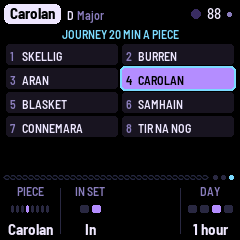
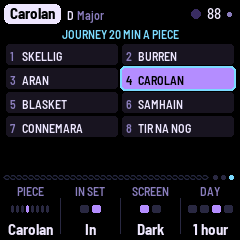
1.4.1: the screen, dark or light
A Screen knob on the Journey page (its third, which was empty): Dark, the
colours on black as before; Light, the same hues deeper, on white. Saved
with the pieces, as Lights (a spare byte: a save from before reads Dark).

The colours are two tables and the K_ names read the one in use; the
screen is drawn again whole when it changes. On the light screen a held
effect's band is a shade deeper, so its white lettering reads (expect
pfcontrast, now for both). Nothing in the sound engine.

Host: expect light; scenario screenlight (turned, saved, restarted,
turned back). Manual: the Screen paragraph, a light picture, the Journey
picture retaken.

Claude-Session: https://claude.ai/code/session_01T5obJLGpxqm4RGcUwvyqqe

diff --git a/firmware/src/app/ui.c b/firmware/src/app/ui.c
@@ -108,7 +108,8 @@ enum { K_LEDS = 200, K_CPU, K_NONE, K_SLOT, K_CQ, K_CX,    /* (the Chords page: 
        K_PLAY,                                               /* (the Chords page: Endless or Loop, P_PMODE's bit 2) */
        K_SAVE,                                               /* (Setup: a turn saves; it shows whether it's saved) */
        K_CHORUS,
-       K_JRP, K_JRIN, K_DAY };
+       K_JRP, K_JRIN, K_DAY,
+       K_SCR };                                              /* (1.4.1) the screen, dark or light: saved, as Lights */
 #define NDAY 4                                   /* (1.4) the day: off, or a whole day in 20 minutes, 1 hour, 3 hours */
 static const char *const DAY_NAME[NDAY] = {"Off", "20 min", "1 hour", "3 hours"};
 static void dy_set(int v);
@@ -148,7 +149,7 @@ static const uint16_t VIEW_KNOB[NVIEWS][4] = {
     {P_MW4, P_MT4, P_MR4, P_MI4},                /* the Atmosphere's Move (SAVE, a third time) */
     {P_ORN, P_GLIDE, P_VIB, P_LMEM},             /* (AISLING) Lead style (LFO, a third time): how it plays; Memory
                                                   * as on the Arc page */
-    {K_JRP, K_JRIN, K_NONE, K_DAY},              /* (1.4) the Journey (GLO, a third time): its pieces; the day */
+    {K_JRP, K_JRIN, K_SCR, K_DAY},              /* (1.4) the Journey (GLO, a third time): its pieces; the day */
 };
 static const char *const KNOB_LABEL[NVIEWS][4] = {
     {"Filter", "Evolve", "Motion", "Drift"},
@@ -178,7 +179,7 @@ static const char *const KNOB_LABEL[NVIEWS][4] = {
     {"Width", "Time", "Rate", "Intro"},
     {"Width", "Time", "Rate", "Intro"},
     {"Ornament", "Glide", "Vibrato", "Memory"},
-    {"Piece", "In set", "", "Day"},
+    {"Piece", "In set", "Screen", "Day"},
 };
 /* what each knob does, a line: on the rule above the knobs while it's being turned (in capitals; each fits the
  * rule's 228 px, and every view has its row: the host's expect helpfit) */
@@ -211,36 +212,45 @@ static const char *const KNOB_HELP[NVIEWS][4] = {   /* (BERLIN's, a row a view, 
     {"How far its filter wanders", "How long one move takes", "How often a new move starts", "Bars its filter takes to open"},
     {"How far its filter wanders", "How long one move takes", "How often a new move starts", "Bars its filter takes to open"},
     {"Cuts, rolls, slides: how often", "How long it slides, note to note", "How deep the late vibrato", "How much the Lead keeps its ideas"},
-    {"Which piece: the journey's list", "The journey plays it, or passes", "", "Dawn to night: light and weather"},
+    {"Which piece: the journey's list", "The journey plays it, or passes", "Dark, on black; or light, on white", "Dawn to night: light and weather"},
 };
 
 /* (BERLIN) the screen's colours: Cosmic, on black (spec 15): lavender text, a cyan accent; the layers in their own
  * colours, the Drone violet, the Sequence pink, the Lead gold, Sequence 2 cyan, the Atmosphere dim lavender; each with a
  * dark tint for the shapes at rest. (The names stay DUB-1's: K_PAD the Drone, K_BELL the Sequence, K_BASS the Lead,
  * K_PULSE Sequence 2, K_NOISE the Atmosphere.) */
-#define K_BG RGB(0, 0, 0)
-#define K_PANEL RGB(26, 23, 38)
-#define K_LINE RGB(46, 41, 66)
-#define K_DIM RGB(141, 127, 184)
-#define K_TEXT RGB(239, 231, 255)
-#define K_ACC RGB(127, 216, 255)         /* the accent: the page, the knob being turned, a message's word */
-#define K_BELL RGB(255, 106, 213)
-#define K_BELL_T RGB(96, 36, 82)
-#define K_PAD RGB(180, 140, 255)
-#define K_PAD_T RGB(58, 44, 96)
-#define K_PULSE RGB(127, 216, 255)
-#define K_PULSE_T RGB(36, 66, 84)
-#define K_BASS RGB(255, 210, 127)
-#define K_BASS_T RGB(98, 80, 44)
-#define K_FROST RGB(232, 92, 84)         /* dub hold */
-#define K_FROST_T RGB(128, 56, 52)
-#define K_RIM RGB(214, 124, 176)         /* the rim */
-#define K_RIM_T RGB(108, 58, 86)
-#define K_CLAP RGB(232, 206, 98)         /* the clap */
-#define K_CLAP_T RGB(108, 98, 48)
-#define K_EIRE RGB(52, 196, 116)         /* (AISLING) the triskele's green */
-#define K_EIRE_O RGB(255, 146, 72)       /* (AISLING) and the flag's orange: the launch screen's "by" */
-#define K_NOISE RGB(186, 174, 156)       /* the noise (its level ring) */
+/* (1.4.1) the colours by night (as they were, on black) and by day (on bainin white: the same hues, darker, so
+ * each reads on it; a tint is pale, not dark). the Journey page's Screen sets which; proj.light keeps it. */
+enum { KC_BG, KC_PANEL, KC_LINE, KC_DIM, KC_TEXT, KC_ACC, KC_BELL, KC_BELL_T, KC_PAD, KC_PAD_T, KC_PULSE, KC_PULSE_T, KC_BASS, KC_BASS_T, KC_FROST, KC_FROST_T, KC_RIM, KC_RIM_T, KC_CLAP, KC_CLAP_T, KC_EIRE, KC_EIRE_O, KC_NOISE, KC_SEA, KC_HEATHER, KC_GORSE, KC_BAININ, KC_N };
+static const uint16_t KPAL[2][KC_N] = {
+    {RGB(0, 0, 0), RGB(26, 23, 38), RGB(46, 41, 66), RGB(141, 127, 184), RGB(239, 231, 255), RGB(127, 216, 255), RGB(255, 106, 213), RGB(96, 36, 82), RGB(180, 140, 255), RGB(58, 44, 96), RGB(127, 216, 255), RGB(36, 66, 84), RGB(255, 210, 127), RGB(98, 80, 44), RGB(232, 92, 84), RGB(128, 56, 52), RGB(214, 124, 176), RGB(108, 58, 86), RGB(232, 206, 98), RGB(108, 98, 48), RGB(52, 196, 116), RGB(255, 146, 72), RGB(186, 174, 156), RGB(72, 188, 176), RGB(198, 150, 210), RGB(244, 200, 56), RGB(246, 238, 214)},
+    {RGB(250, 247, 240), RGB(232, 226, 240), RGB(206, 198, 224), RGB(108, 94, 150), RGB(24, 18, 40), RGB(0, 118, 170), RGB(204, 40, 150), RGB(242, 204, 230), RGB(120, 80, 210), RGB(222, 210, 246), RGB(0, 128, 180), RGB(198, 228, 240), RGB(176, 118, 0), RGB(240, 224, 190), RGB(200, 50, 44), RGB(246, 208, 204), RGB(170, 70, 130), RGB(240, 208, 226), RGB(150, 124, 0), RGB(238, 230, 190), RGB(20, 140, 80), RGB(200, 90, 10), RGB(120, 110, 96), RGB(0, 128, 118), RGB(140, 80, 160), RGB(166, 118, 0), RGB(40, 34, 30)},
+};
+static const uint16_t *kpal = KPAL[0];
+static void pal_sync(void);                      /* kpal as proj.light says, and all drawn again when it changed */
+#define K_BG kpal[KC_BG]
+#define K_PANEL kpal[KC_PANEL]
+#define K_LINE kpal[KC_LINE]
+#define K_DIM kpal[KC_DIM]
+#define K_TEXT kpal[KC_TEXT]
+#define K_ACC kpal[KC_ACC]         /* the accent: the page, the knob being turned, a message's word */
+#define K_BELL kpal[KC_BELL]
+#define K_BELL_T kpal[KC_BELL_T]
+#define K_PAD kpal[KC_PAD]
+#define K_PAD_T kpal[KC_PAD_T]
+#define K_PULSE kpal[KC_PULSE]
+#define K_PULSE_T kpal[KC_PULSE_T]
+#define K_BASS kpal[KC_BASS]
+#define K_BASS_T kpal[KC_BASS_T]
+#define K_FROST kpal[KC_FROST]         /* dub hold */
+#define K_FROST_T kpal[KC_FROST_T]
+#define K_RIM kpal[KC_RIM]         /* the rim */
+#define K_RIM_T kpal[KC_RIM_T]
+#define K_CLAP kpal[KC_CLAP]         /* the clap */
+#define K_CLAP_T kpal[KC_CLAP_T]
+#define K_EIRE kpal[KC_EIRE]         /* (AISLING) the triskele's green */
+#define K_EIRE_O kpal[KC_EIRE_O]       /* (AISLING) and the flag's orange: the launch screen's "by" */
+#define K_NOISE kpal[KC_NOISE]       /* the noise (its level ring) */
 
 static struct {
     uint8_t view;
@@ -527,6 +537,8 @@ static int knob_get(int k)
         return proj.par[k] + (k == P_SEQ2OCT ? s2_shift() : 0);
     if (k == K_LEDS)
         return proj.leds;
+    if (k == K_SCR)
+        return proj.light != 0;
     if (k == K_CPU)
         return (int)plat_cpu_pct();
     if (k == K_SLOT)
@@ -571,7 +583,7 @@ static void knob_range(int k, int *lo, int *hi)
         *hi = 50;
     } else {
         *lo = 0;
-        *hi = k == K_DAY ? NDAY - 1 : k == K_JRP ? NPIECES - 1 : k == K_JRIN ? 1 : k == K_CHORUS ? 100 : k == K_PLAY ? 1 : k == K_MODE ? EN_NMODES - 1 : k == K_LEDS ? 2 : k == K_CPU ? 100 : k == K_SLOT ? EN_NPROG - 1 : k == K_CQ ? EN_NCQ - 1 : k == K_CX ? EN_NCX - 1
+        *hi = k == K_SCR ? 1 : k == K_DAY ? NDAY - 1 : k == K_JRP ? NPIECES - 1 : k == K_JRIN ? 1 : k == K_CHORUS ? 100 : k == K_PLAY ? 1 : k == K_MODE ? EN_NMODES - 1 : k == K_LEDS ? 2 : k == K_CPU ? 100 : k == K_SLOT ? EN_NPROG - 1 : k == K_CQ ? EN_NCQ - 1 : k == K_CX ? EN_NCX - 1
             : k == K_LANE ? EN_NDRUM - 1 : k == K_LCH ? 100 : 0;
     }
 }
@@ -581,7 +593,7 @@ static const char *knob_name(int k)
         return en_param_info(k)->name;
     return k == K_LEDS ? "Lights" : k == K_CPU ? "CPU" : k == K_SLOT ? "Slot" : k == K_CQ ? "Chord" : k == K_CX ? "Type"
          : k == K_LANE ? "Lane" : k == K_LCH ? "Chance" : k == K_FILTER ? "Filter" : k == K_DUB ? "Wet"
-         : k == K_ENERGY ? "Energy" : k == K_SPACE ? "Duck" : k == K_MODE ? "Mode" : k == K_PLAY ? "Play" : k == K_SAVE ? "Save" : k == K_CHORUS ? "Chorus" : k == K_DAY ? "Day" : k == K_JRP ? "Piece" : k == K_JRIN ? "In set" : "";
+         : k == K_ENERGY ? "Energy" : k == K_SPACE ? "Duck" : k == K_MODE ? "Mode" : k == K_PLAY ? "Play" : k == K_SAVE ? "Save" : k == K_CHORUS ? "Chorus" : k == K_DAY ? "Day" : k == K_SCR ? "Screen" : k == K_JRP ? "Piece" : k == K_JRIN ? "In set" : "";
 }
 static void knob_text(int k, char *b)
 {
@@ -598,8 +610,8 @@ static void knob_text(int k, char *b)
             b++;
         *b++ = '%';
         *b = 0;
-    } else if (k == K_JRP || k == K_JRIN || k == K_DAY) {
-        const char *n = k == K_DAY ? DAY_NAME[v] : k == K_JRP ? piece_name(v) : v ? "In" : "Out";
+    } else if (k == K_JRP || k == K_JRIN || k == K_DAY || k == K_SCR) {
+        const char *n = k == K_SCR ? (v ? "Light" : "Dark") : k == K_DAY ? DAY_NAME[v] : k == K_JRP ? piece_name(v) : v ? "In" : "Out";
         while ((*b++ = *n++))
             ;
     } else if (k == K_SLOT) {
@@ -683,6 +695,8 @@ static void knob_set(int k, int v)
             en_prog_rotate();                    /* (from Loop, by hand: the slot playing up to slot 1) */
     } else if (k == K_LEDS) {
         proj.leds = (uint8_t)v;
+    } else if (k == K_SCR) {                     /* (kpal follows it at the next frame: pal_sync) */
+        proj.light = (uint8_t)(v != 0);
     } else if (k == K_SLOT) {
         ui.slot = (uint8_t)v;
         return;                                  /* (only where the page looks: nothing saved) */
@@ -1590,7 +1604,7 @@ static void cc_in(int n, int v)
     } else if (n >= CC_FIXED && n < CC_FIXED + 7) {
         k = CC_FIXED_K[n - CC_FIXED];
     }
-    if (k == K_NONE || k == K_CPU || k == K_SAVE || k == K_LEDS || k == P_TUNE || k == P_MIDI)
+    if (k == K_NONE || k == K_CPU || k == K_SAVE || k == K_LEDS || k == K_SCR || k == P_TUNE || k == P_MIDI)
         return;
     knob_range(k, &lo, &hi);
     knob_set(k, lo + (v * (hi - lo) + 63) / 127);
@@ -2763,7 +2777,7 @@ static void line(int32_t x0, int32_t y0, int32_t x1, int32_t y1, uint16_t c)   /
 
 static void draw_meters(void)                    /* (BERLIN) left: the five layers, each its own activity at its level */
 {
-    static const uint16_t C[5] = {K_PAD, K_BELL, K_BASS, K_PULSE, K_NOISE},
+    const uint16_t C[5] = {K_PAD, K_BELL, K_BASS, K_PULSE, K_NOISE},
                           T[5] = {K_PAD_T, K_BELL_T, K_BASS_T, K_PULSE_T, K_PANEL};
     static const char *const NAME[5] = {"D", "1", "L", "2", "A"};
     int i;
@@ -2799,7 +2813,7 @@ static void draw_duck(void)                      /* (BERLIN) right: the echo's l
  * play in its colour, the rests a dot; on a layer's page the other lane greyed */
 static void draw_lanes(void)
 {
-    static const uint16_t C[2] = {K_BELL, K_PULSE}, T[2] = {K_BELL_T, K_PULSE_T};
+    const uint16_t C[2] = {K_BELL, K_PULSE}, T[2] = {K_BELL_T, K_PULSE_T};
     const int lay = oct_layer(ui.view);
     int l, i;
     for (l = 0; l < 2; l++) {
@@ -2825,17 +2839,17 @@ static const char *const GRID_CELL[EN_NFX] = {"Repeat", "Time", "Stop", "Shimmer
                                               "Reverb", "Ceo", "Freeze", "Wash", "Octave", "Return", "Fras",
                                               "Macalla"};
 /* (the user, 2026-11-10: "more Irish") the flag's orange, the sea, heather, gorse, shamrock; shaded towards bainin */
-#define K_SEA RGB(72, 188, 176)
-#define K_HEATHER RGB(198, 150, 210)
-#define K_GORSE RGB(244, 200, 56)
-#define K_BAININ RGB(246, 238, 214)
+#define K_SEA kpal[KC_SEA]
+#define K_HEATHER kpal[KC_HEATHER]
+#define K_GORSE kpal[KC_GORSE]
+#define K_BAININ kpal[KC_BAININ]
 /* (1.3.1; the user, 2026-11-11: "more of how it is shown now") the grid in PERFORM's look: its name in the uncial hand,
  * a colour a group (Echo the sea and Space heather, as PERFORM's; Filter gorse, Moves the flag's orange), a shade a
  * cell, a plaited rule after each group's name; a held cell its colour full, the lettering black, as the flash */
 static void grid_band(int32_t oy)                 /* the whole screen, in two bands of 240 x 120 */
 {
     static const char *const GROUP[4] = {"ECHO", "FILTER", "SPACE", "MOVES"};   /* (BERLIN's) */
-    static const uint16_t GCOL[4] = {K_SEA, K_GORSE, K_HEATHER, K_EIRE_O};
+    const uint16_t GCOL[4] = {K_SEA, K_GORSE, K_HEATHER, K_EIRE_O};
     int r, c;
     cv_begin(240, 120, K_BG);
     text_c(120, 0 - oy, &FONT_US, "EFFECTS", K_ACC);
@@ -2926,7 +2940,8 @@ static void draw_pmap(void)
  * go: their keys blink, REC is lit. */
 #define PF_H (HDR_H + MAIN_H)
 #define PF_MAX 8
-static const uint16_t PG_COL[PG_N] = {K_EIRE_O, K_SEA, K_HEATHER, K_GORSE, K_EIRE};
+static const uint8_t PG_COL_I[PG_N] = {KC_EIRE_O, KC_SEA, KC_HEATHER, KC_GORSE, KC_EIRE};
+#define PG_COL(g) kpal[PG_COL_I[g]]
 static const char *const PLINE[PERF_N] = {
     "a slice, over and over", "fog rolling into the echo", "half the speed", "a burst of rain",
     "chopped to the beat", "the Sequence's filter swept", "a beat rolled faster", "the Sequence into the echo",
@@ -2940,8 +2955,11 @@ static uint16_t pkey_col(int k)
     int i, n = 0;
     for (i = 0; i < k; i++)
         n += PKEY[i].g == PKEY[k].g;
-    return mix(PG_COL[PKEY[k].g], K_BAININ, PKEY[k].g == PG_BLACK ? n : n * 3);
+    return mix(PG_COL(PKEY[k].g), K_BAININ, PKEY[k].g == PG_BLACK ? n : n * 3);
 }
+/* (1.4.1) the held effect's band: the key's colour; on the light screen a shade deeper, so the white lettering on
+ * it reads (4.5:1, the host's expect pfcontrast) */
+static uint16_t pflash_col(int k) { return proj.light ? mix(pkey_col(k), K_BAININ, 4) : pkey_col(k); }
 static int pflash_up(void) { return ui.perf && (ui.pheld | ui.pcc); }
 /* (1.4) a key's amount under full, in 63rds (1..63), or 0: full, or not sounding. Only a CC makes less than full */
 static int pk_under(int k)
@@ -2977,7 +2995,7 @@ static void pflash_band(uint32_t m, int32_t oy, int32_t hh, int fade)
             text_c(120, y0 + (bh - 19) / 2 - oy, &FONT_US, more < 10 ? (t[1] = t[2], t[2] = 0, t) : t, ink);
             break;
         }
-        col = mix(pkey_col(k), K_BG, fade);
+        col = mix(pflash_col(k), K_BG, fade);
         cv_rect(0, y0 - oy, 240, bh, col);
         if (pk_under(k)) {                       /* (1.4) under full: a bar up the band's left edge, as tall as its
                                                   * amount, clear of the lettering (at full there is none, and the
@@ -3038,7 +3056,7 @@ static int pflash_showing(void) { return ui.sig[0] == 0x50464C41u; }
  * playing a column */
 static void draw_pattern(void)
 {
-    static const uint16_t C[EN_NDRUM] = {K_PULSE, K_TEXT, K_DIM, K_RIM, K_CLAP};
+    const uint16_t C[EN_NDRUM] = {K_PULSE, K_TEXT, K_DIM, K_RIM, K_CLAP};
     static const char *const SH[EN_NDRUM] = {"SEQ", "SEQ2", "OCT", "OCT2", "SKIP"};   /* (BERLIN's lanes, LANE_NAME) */
     int l, i, pos = en_loop_pos[0];              /* (the Sequence's step, not the bar's sixteenth) */
     text_c(120, -1, &FONT_XS, proj.par[P_SMODE] ? "PLAY: THE PATTERN" : "PLAY: AUTO (A KEY TAKES IT OVER)",
@@ -3135,7 +3153,7 @@ static void draw_setlist(void)
  * OCT_SHOW after the last turn */
 static void draw_oct(uint32_t now)
 {
-    static const uint16_t C[NLAYER] = {K_PAD, K_BELL, K_BASS, K_PULSE, K_NOISE};
+    const uint16_t C[NLAYER] = {K_PAD, K_BELL, K_BASS, K_PULSE, K_NOISE};
     const int32_t r = 30, cy = 66;
     int l = oct_ring_on(now) - 1, f;
     int32_t f2;
@@ -3529,7 +3547,7 @@ static void draw_knobs(void)
         int k = VIEW_KNOB[ui.view][i], lo, hi, v, hot = now_touch && ui.touched == (int)i;
         int32_t x = (int32_t)i * 60, cx = x + 30;
         char t[16];
-        static const uint16_t MIXC[4] = {K_PAD, K_BELL, K_BASS, K_PULSE};   /* (the Mix page: the layers' colours) */
+        const uint16_t MIXC[4] = {K_PAD, K_BELL, K_BASS, K_PULSE};   /* (the Mix page: the layers' colours) */
         uint16_t bg = hot ? K_PANEL : K_BG, fill = moff ? K_LINE : ui.view == V_MIX ? MIXC[i] : hot ? K_ACC : K_PAD;
         if (k == K_NONE)
             continue;
@@ -4000,6 +4018,8 @@ static void speak_dump(void)
                     proj.par[k] = (int16_t)x;
                 else if (k == K_SLOT)
                     ui.slot = (uint8_t)x;
+                else if (k == K_SCR)
+                    proj.light = (uint8_t)x;
                 else if (k == K_DAY)
                     ui.day = (uint8_t)(x == hi ? 0 : x);   /* (left off) */
                 else if (k == K_JRP)
@@ -4235,8 +4255,17 @@ static int sleep_input(void)
     return 1;
 }
 
+static void pal_sync(void)
+{
+    const uint16_t *want = KPAL[proj.light != 0];
+    if (kpal != want) {
+        kpal = want;
+        memset(ui.sig, 0, sizeof ui.sig);        /* every band drawn again */
+    }
+}
 void ui_frame(void)
 {
+    pal_sync();
     if (sleep_tick()) {                          /* (1.1) asleep: only waking, saving, the reader and the link */
         sleep_input();
         autosave();
@@ -4316,6 +4345,7 @@ static void splash_band(int f, int32_t oy)
 
 void ui_splash(int f)
 {
+    pal_sync();                                  /* (the first frame comes before the project is read: dark) */
     splash_band(f, 0);
     splash_band(f, 120);
 }

diff --git a/host/amb_host.c b/host/amb_host.c
@@ -568,6 +568,9 @@ static int expect(const char *what, const char *val)
         got = (int)ui_gain_q12;
     else if (!strcmp(what, "view"))
         got = ui.view;
+    else if (!strcmp(what, "light"))              /* (1.4.1) the screen: 0 dark, 1 light; 10 more when the colours in
+                                                   * use aren't the ones it asks for */
+        got = proj.light + (kpal != KPAL[proj.light != 0] ? 10 : 0);
     else if (!strcmp(what, "piece"))
         got = proj.piece;
     else if (!strcmp(what, "pool"))               /* the scale, relative to the root (hex ok) */
@@ -604,7 +607,7 @@ static int expect(const char *what, const char *val)
         int k, c;
         got = 0;
         for (k = 0; k < PERF_N; k++) {
-            uint16_t q[2] = {pkey_col(k), K_PANEL};
+            uint16_t q[2] = {pflash_col(k), proj.light ? K_BG : K_PANEL};   /* (1.4.1) light: its lettering is K_BG, white */
             double l[2];
             for (c = 0; c < 2; c++) {
                 double ch[3] = {(q[c] >> 11) / 31.0, ((q[c] >> 5) & 63) / 63.0, (q[c] & 31) / 31.0};
@@ -613,7 +616,7 @@ static int expect(const char *what, const char *val)
                     ch[i] = ch[i] <= 0.03928 ? ch[i] / 12.92 : pow((ch[i] + 0.055) / 1.055, 2.4);
                 l[c] = 0.2126 * ch[0] + 0.7152 * ch[1] + 0.0722 * ch[2];
             }
-            got += (l[0] + 0.05) / (l[1] + 0.05) < 4.5;
+            got += (proj.light ? (l[1] + 0.05) / (l[0] + 0.05) : (l[0] + 0.05) / (l[1] + 0.05)) < 4.5;
         }
     } else if (!strcmp(what, "pffit")) {          /* (1.3) the names and lines wider than the flash allows */
         int k;

diff --git a/firmware/src/app/app.h b/firmware/src/app/app.h
@@ -34,7 +34,9 @@ typedef struct {
                                          * start, as before; 1..4 every 4, 8, 16, 32 bars. Global, as Tune (the
                                          * byte was spare: a save from 1.1 reads 0) */
     slot_t slot[NPIECES];                /* every piece as it was left (Tune and MIDI out are global) */
-    uint8_t rsv[16];                     /* room to grow */
+    uint8_t light;                       /* (1.4.1) the screen: 0 dark (on black, as it was), 1 light (on white).
+                                         * Global. (The byte was spare: a save from before reads 0) */
+    uint8_t rsv[15];                     /* room to grow */
 } project_t;
 
 extern project_t proj;

diff --git a/firmware/src/app/project.c b/firmware/src/app/project.c
@@ -110,6 +110,7 @@ int project_load(void)
         pars_clamp(proj.par);                    /* (the ranges as they are now) */
         for (i = 0; i < NPIECES; i++)
             pars_clamp(proj.slot[i].par);
+        proj.light = (uint8_t)(proj.light != 0);   /* (1.4.1) */
         if (proj.evbars > 4u)                    /* (1.2) */
             proj.evbars = 0;
         if (project_valid())

diff --git a/firmware/src/app/link.c b/firmware/src/app/link.c
@@ -223,6 +223,7 @@ static int link_project_install(project_t *in, int pats)
     }
     if (in->leds > 2u)
         in->leds = 2u;
+    in->light = (uint8_t)(in->light != 0);
     in->screen = (uint8_t)(in->screen % 3u);
     if (!project_check(in))
         return -1;

diff --git a/docs/MANUAL.md b/docs/MANUAL.md
@@ -175,7 +175,13 @@ The **Journey page** is its set list: KNOB 1 picks a piece, KNOB 2 puts it in or
 out), and the journey passes over the ones that are out. The journey changes nothing in the pieces and saves
 nothing; the stay and the list aren't saved either, so it's off, with all eight in, every time the FM-1 starts.
 
-![The Journey page: JOURNEY 20 MIN A PIECE over the eight pieces in two columns, Carolan picked, and the knobs Piece, In set and Day](img/screen-journey.png "The Journey page: a stay of 20 minutes, all eight in, the day at 1 hour")
+**The screen, dark or light.** KNOB 3 on the Journey page, **Screen**, sets the whole screen: Dark, the colours on
+black, as it comes; or Light, the same colours deeper, on white, for a bright room or daylight. It changes nothing
+in the sound. It's saved with the pieces, as Lights is, and a CC never turns it.
+
+![The main screen, light: the same screen on white, the colours deeper](img/screen-light.png "The main screen with Screen at Light")
+
+![The Journey page: JOURNEY 20 MIN A PIECE over the eight pieces in two columns, Carolan picked, and the knobs Piece, In set, Screen and Day](img/screen-journey.png "The Journey page: a stay of 20 minutes, all eight in, the day at 1 hour")
 
 **The day and the weather.** KNOB 4 on the Journey page, **Day**, lays a slow day over whatever plays: Off, or a
 whole day in 20 minutes, 1 hour or 3 hours. It begins at dawn. By day the sequences' filter and the pings' tone
@@ -558,7 +564,7 @@ Reverb, Echo. **Its Move page:** Width, Time, Rate, Intro.
 **GLO: Setup:** Tune (±50 cents), MIDI out, Lights, Save; ALGORITHM the sleep timer (see
 [Sleep](#3-controls)); SELECT the journey's stay. **GLO again: Arc:** Lead in, Bridge, Arc,
 Memory (see [The arc and the filter motion](#6-the-arc-and-the-filter-motion)). **GLO a third time: Journey:** Piece,
-In set, and Day; SELECT the stay (see [The journey](#3-controls)).
+In set, Screen (Dark or Light) and Day; SELECT the stay (see [The journey](#3-controls)).
 
 **EDIT: Chords:** eight slots. In **Endless** the walk writes them and slot 1 plays; on each change they move
 up a slot. A key writes a slot's root, KNOB 2 its kind, KNOB 3 its type, KNOB 4 Play: Endless or **Loop**
@@ -714,7 +720,7 @@ clock from a Korg nanoKEY Fold, over a plain stereo cable. Type B hasn't been tr
 - **In, CCs:** on any channel, a CC turns a knob (see the table below). It sets the value outright: 0 to 127 spans
   the knob's range, and on the centred knobs (Filter, Wet, Energy, the sound pages' ±50) 64 is the middle. A CC counts
   as a touch for the sleep timer, as a note does. CCs never save, and never turn Setup's Tune, MIDI out, Lights or
-  Save; while the effects grid is up, 16 to 19 rest, as the knobs do. A change is saved by itself later, as a turn's
+  Save, or the Journey page's Screen; while the effects grid is up, 16 to 19 rest, as the knobs do. A change is saved by itself later, as a turn's
   is (Filter, Wet, Energy and Chorus aren't saved at all). Other CCs are ignored.
 - **In, effects:** each of PERFORM's 27 effects has a CC, on any channel (the second table below). 64 or more holds
   the effect, less lets it go, as its key does. From 64 to 127 the value is also how much of the effect there is:
@@ -808,7 +814,7 @@ jack ignores it.
 
 ## 12. Saving
 
-AISLING keeps all eight pieces in the FM-1's memory, each as you left it, with Tune, MIDI out, Lights and Evolve's
+AISLING keeps all eight pieces in the FM-1's memory, each as you left it, with Tune, MIDI out, Lights, Screen and Evolve's
 timing.
 
 - **By itself:** a few seconds after a change, while resting (writing to the memory interrupts the sound
